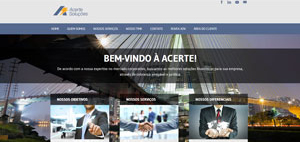
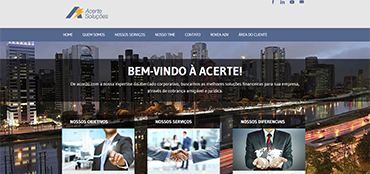
Conteúdo adicionado Sobre e Projetos
Logos adicionados na parte de Proejtos e sobre e distruibuição do
conteúdo com grids realizada.

diff --git a/projetos.html b/projetos.html
@@ -32,30 +32,138 @@
           <div id="conteudocentral" class="profile-content">
             <h1>Projetos</h1>
             <p>Donec id elit non mi porta gravida at eget metus. Fusce dapibus, tellus ac cursus commodo, tortor mauris condimentum nibh, ut fermentum massa justo sit amet risus. Etiam porta sem malesuada magna mollis euismod. Donec sed odio dui. </p>
-            <!-- Imagens em miniatura dos projetos -->
-            <div class="row">
-                <div class="col-md-6">
-                    <a href="http://acertesrc.com.br/" target="_blank">
-                        <img src="img/Thumbs/thumb-acerte.jpg" class="img-responsive"/>
-                    </a>
-                </div>
-                <div class="col-md-6">
-                    <a href="http://br.onduline.com/" target="_blank">
-                        <img src="img/Thumbs/thumb-onduline.jpg" class="img-responsive"/>
-                    </a>
-                </div>
-  
-                <div class="col-md-6">
-                    <a href="http://promokaspersky.com.br/casadocartucho/" target="_blank">
-                        <img src="img/Thumbs/thumb-kaspersky.jpg" class="img-responsive"/>
-                    </a>
-                </div>
-                <div class="col-md-6">
-                    <a href="http://dvxfitness.com.br/" target="_blank">
-                        <img src="img/Thumbs/thumb-dvx.jpg" class="img-responsive"/>
-                    </a>
-                </div>
-          </div>
+            <div role="tabpanel">
+
+              <!-- Nav tabs -->
+              <ul class="nav nav-tabs"  id="tab-text" role="tablist">
+                <li role="presentation" class="active">
+                    <a href="#Web" aria-controls="web" role="tab" data-toggle="tab">Web</a>
+                </li>
+                <li role="presentation">
+                    <a href="#Education" aria-controls="education" role="tab" data-toggle="tab">Educação</a>
+                </li>
+                <li role="presentation">
+                    <a href="#Games" aria-controls="games" role="tab" data-toggle="tab">Games</a>
+                </li>
+                <li role="presentation">
+                    <a href="#Premios" aria-controls="premios" role="tab" data-toggle="tab">Prêmios</a>
+                </li>
+              </ul>
+
+              <!-- Tab panes -->
+                  <div class="tab-content">
+                    <div role="tabpanel" class="tab-pane fade in active" id="Web">
+                        <!-- Imagens em miniatura dos projetos -->
+                        <div class="row">
+                            <div class="col-md-6 cs-style-3">
+                                <figure>
+                                    <a href="http://acertesrc.com.br/" target="_blank">
+                                        <img src="img/Thumbs/thumb-acerte.jpg" class="img-responsive"/>
+                                    </a>
+                                    <figcaption>
+                                        <h3>Camera</h3>
+                                        <span>Jacob Cummings</span>
+                                        <a href="http://dribbble.com/shots/1115632-Camera">Take a look</a>
+                                    </figcaption>
+                                </figure>
+                            </div>
+                            <div class="col-md-6 cs-style-3">
+                                <figure>
+                                    <a href="http://br.onduline.com/" target="_blank">
+                                        <img src="img/Thumbs/thumb-onduline.jpg" class="img-responsive"/>
+                                    </a>
+                                    <figcaption>
+                                        <h3>Camera</h3>
+                                        <span>Jacob Cummings</span>
+                                        <a href="http://dribbble.com/shots/1115632-Camera">Take a look</a>
+                                    </figcaption>
+                                </figure>
+                            </div>
+              
+                            <div class="col-md-6 cs-style-3">
+                                <figure>
+                                    <a href="http://promokaspersky.com.br/casadocartucho/" target="_blank">
+                                        <img src="img/Thumbs/thumb-kaspersky.jpg" class="img-responsive"/>
+                                    </a>
+                                    <figcaption>
+                                        <h3>Camera</h3>
+                                        <span>Jacob Cummings</span>
+                                        <a href="http://dribbble.com/shots/1115632-Camera">Take a look</a>
+                                    </figcaption>
+                                </figure>
+                            </div>
+                            <div class="col-md-6 cs-style-3">
+                                <figure>
+                                    <a href="http://dvxfitness.com.br/" target="_blank">
+                                        <img src="img/Thumbs/thumb-dvx.jpg" class="img-responsive"/>
+                                    </a>
+                                    <figcaption>
+                                        <h3>Camera</h3>
+                                        <span>Jacob Cummings</span>
+                                        <a href="http://dribbble.com/shots/1115632-Camera">Take a look</a>
+                                    </figcaption>
+                                </figure>
+                            </div>
+                        </div>
+                    </div>
+                    <div role="tabpanel" class="tab-pane fade" id="Education">
+                        <div class="row">
+                            <div class="col-md-6 cs-style-3">
+                                <figure>
+                                    <img src="img/Thumbs/thumb-intercambio.jpg" class="img-responsive"/>
+                                    <figcaption>
+                                        <h3>Camera</h3>
+                                        <span>Jacob Cummings</span>
+                                        <a href="http://dribbble.com/shots/1115632-Camera">Take a look</a>
+                                    </figcaption>
+                                </figure>
+                            </div>
+                            <div class="col-md-6 cs-style-3">
+                                <figure>
+                                    <img src="img/Thumbs/thumb-scratch.jpg" class="img-responsive"/>
+                                    <figcaption>
+                                        <h3>Camera</h3>
+                                        <span>Jacob Cummings</span>
+                                        <a href="http://dribbble.com/shots/1115632-Camera">Take a look</a>
+                                    </figcaption>
+                                </figure>
+                            </div>
+                        </div>
+
+                    </div>
+                    <div role="tabpanel" class="tab-pane fade" id="Games">
+                        <div class="row">
+                            <div class="col-md-6 col-md-push-2 cs-style-3">
+                                <figure>
+                                    <a href="http://caiovgoliveira.com.br/oguardiao/O%20Guardiao.html" target="_blank">
+                                        <img src="img/Thumbs/thumb-jogo.jpg" class="img-responsive"/>
+                                    </a>
+                                    <figcaption>
+                                        <h3>Camera</h3>
+                                        <span>Jacob Cummings</span>
+                                        <a href="http://dribbble.com/shots/1115632-Camera">Take a look</a>
+                                    </figcaption>
+                                </figure>
+                            </div>
+                        </div>
+                    </div>
+                    <div role="tabpanel" class="tab-pane fade" id="Premios">
+                        <div class="row">
+                            <div class="col-md-6 col-md-push-2 cs-style-3">
+                                <figure>
+                                    <img src="img/Thumbs/thumb-johnson.jpg" class="img-responsive"/>
+                                    <figcaption>
+                                        <h3>Camera</h3>
+                                        <span>Jacob Cummings</span>
+                                        <a href="http://dribbble.com/shots/1115632-Camera">Take a look</a>
+                                    </figcaption>
+                                </figure>
+                            </div>
+                        </div>
+                    </div>
+                  </div>
+                </div>  
+            </div>
         </div>
       </div>
     </div>

diff --git a/home.html b/home.html
@@ -20,18 +20,7 @@
 
         <script src="js/vendor/modernizr-2.8.3-respond-1.4.2.min.js"></script>
         <script src="js/vendor/jquery-1.11.2.min.js"></script>
-        <!-- Função Abrir Conteudo em div -->
-                <script type="text/javascript">
-                    $(document).ready(function(){
-                        $("#navbar a").click(function( e ){
-                        e.preventDefault();
-                        var href = $( this ).attr('href');
-                        $("#conteudocentral").load( href +" #conteudocentral");
-                        });
-                    });
-                </script>
-
-            <!-- /Função Abrir Conteudo em div -->  
+        
     </head>
     <body>
         <!--[if lt IE 8]>
@@ -39,73 +28,7 @@
         <![endif]-->
 
     
-        <div class="container">
-            <div class="navbar-header">
-                <a id="menu-toggle" href="#" class="navbar-toggle">
-                        <span class="sr-only">Toggle navigation</span>
-                        <span class="icon-bar"></span>
-                        <span class="icon-bar"></span>
-                        <span class="icon-bar"></span>
-                </a>
-            </div>
-            
-            <!-- Parte perfil menu lateral -->
-            <div id="sidebar-wrapper" class="sidebar-toggle">
-            <!--<div class="profile-sidebar">-->
-                   <div class="profile-userpic">
-                    <img src="img/Thumbs/foto-perfil.png" class="img-responsive"/>
-                    </div>
-                    <div class="profile-usertitle">
-                      <div class="author">
-                        Caio Oliveira
-                      </div>
-                      <div class="author-function">
-                        Web Developer
-                      </div>
-                    </div>
-            <!-- Fim do perfil -->
-                      <ul id="navbar" class="sidebar-nav nav">
-                            <li class="active"> 
-                            <a href="index.html">
-                            <span class="glyphicon glyphicon-home" aria-hidden="true"></span>
-                            HOME</a> 
-                            </li>
-                            <li> 
-                            <a href="sobre.html">
-                            <span class="glyphicon glyphicon-user" aria-hidden="true"></span>
-                            SOBRE</a>
-                            </li>
-                            <li> 
-                            <a href="projetos.html">
-                            <span class="glyphicon glyphicon-globe" aria-hidden="true"></span>
-                            PROJETOS</a>
-                            </li>
-                            <li> 
-                            <a href="contato.html">
-                            <span class="glyphicon glyphicon-envelope" aria-hidden="true"></span>
-                            CONTATO</a>
-                            </li>
-                      </ul>
-                 <ul id="social-icons">
-                    <li>
-                        <a href="https://www.facebook.com/caio.vinicius.71465" target="_blank">
-                            <img src="img/Thumbs/facebook-logo.png"/>
-                        </a>
-                    </li>
-                    <li>
-                        <a href="https://github.com/Caio07" target="_blank">
-                            <img src="img/Thumbs/github-logo.png"/>
-                        </a>
-                    </li>
-                    <li>
-                        <a href="https://br.linkedin.com/in/caiovgo" target="_blank">
-                            <img src="img/Thumbs/linkedin-logo.png"/>
-                        </a>
-                    </li>
-                  </ul>
-                </div>
-        </div>
-
+        
 
         <div class="col-md-9 col-md-push-3">
           <div id="conteudocentral" class="profile-content">

diff --git a/sobre.html b/sobre.html
@@ -30,7 +30,25 @@
           <div id="conteudocentral" class="profile-content">
             <h1>Sobre</h1>
             <p>Donec id elit non mi porta gravida at eget metus. Fusce dapibus, tellus ac cursus commodo, tortor mauris condimentum nibh, ut fermentum massa justo sit amet risus. Etiam porta sem malesuada magna mollis euismod. Donec sed odio dui. </p>
-          </div>
+          <div role="tabpanel">
+
+  <!-- Nav tabs -->
+  <ul class="nav nav-tabs" role="tablist">
+    <li role="presentation" class="active"><a href="#home" aria-controls="home" role="tab" data-toggle="tab">Home</a></li>
+    <li role="presentation"><a href="#profile" aria-controls="profile" role="tab" data-toggle="tab">Profile</a></li>
+    <li role="presentation"><a href="#messages" aria-controls="messages" role="tab" data-toggle="tab">Messages</a></li>
+    <li role="presentation"><a href="#settings" aria-controls="settings" role="tab" data-toggle="tab">Settings</a></li>
+  </ul>
+
+  <!-- Tab panes -->
+  <div class="tab-content">
+    <div role="tabpanel" class="tab-pane active" id="home">...</div>
+    <div role="tabpanel" class="tab-pane" id="profile">...</div>
+    <div role="tabpanel" class="tab-pane" id="messages">...</div>
+    <div role="tabpanel" class="tab-pane" id="settings">...</div>
+  </div>
+
+</div>
           <!--Início galeria com experiencia de trabalho -->
           <div class="row">
             <!-- MP WEB -->
@@ -108,8 +126,9 @@
                       </div>
                     </div>
                 </div>
+                    </div>
+                </div>
             </div>
-          </div>
         </div>
       </div>
     </div>

diff --git a/css/main.css b/css/main.css
@@ -15,7 +15,7 @@ font-family: 'Lobster', cursive;
 
 }
 
-p,ul, .author-function {
+p,ul, .author-function, .cs-style-3 {
   font-family: 'Bree Serif', serif;
 
 }
@@ -131,6 +131,50 @@ img{
   background: #E6E6E6;
 }
 
+/* Image Caption Effect */
+.cs-style-3 figure {
+  overflow: hidden;
+}
+
+.cs-style-3 figure img {
+  transition: transform 0.4s;
+}
+
+/*.no-touch .cs-style-3 figure:hover img,
+.cs-style-3 figure.cs-hover img {
+  transform: translateY(-50px);
+}*/
+
+.cs-style-3 figcaption {
+  height: 100px;
+  width: 100%;
+  top: auto;
+  bottom: 0;
+  opacity: 0;
+  transform: translateY(100%);
+  transition: transform 0.4s, opacity 0.1s 0.3s;
+}
+
+.no-touch .cs-style-3 figure:hover figcaption,
+.cs-style-3 figure.cs-hover figcaption {
+  opacity: 1;
+  transform: translateY(0px);
+  transition: transform 0.4s, opacity 0.1s;
+}
+
+.cs-style-3 figcaption a {
+  position: absolute;
+  bottom: 20px;
+  right: 30px;
+}
+
+#tab-text li a{
+  font-size: 16px;
+}
+
+
+
+/* Media Queries */
 @media (min-width: 768px) {
   #sidebar-wrapper.sidebar-toggle {
     transition: 0s;
